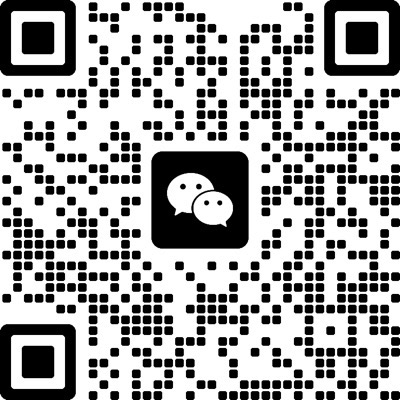
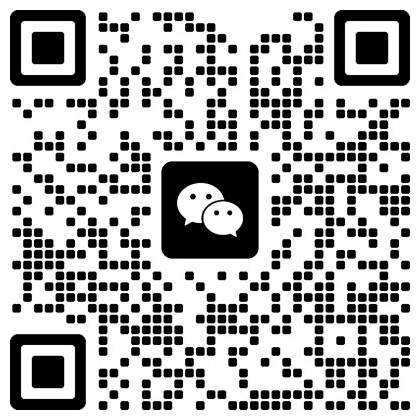
Use new QR code across contact and payment views

diff --git a/public/styles.css b/public/styles.css
@@ -1,5 +1,5 @@
 :root{--ink:#291a1e;--muted:#796b70;--line:#eadde0;--cream:#fbf7f7;--mint:#fff0f2;--green:#b5112e;--coral:#e44156;--navy:#720d22;--white:#fff;--shadow:0 16px 44px rgba(112,13,34,.1)}
-*{box-sizing:border-box}body{margin:0;background:var(--cream);color:var(--ink);font-family:'DM Sans','Noto Sans SC',sans-serif}button,a{font:inherit}button{cursor:pointer;border:0}a{text-decoration:none;color:inherit}.shell{max-width:1240px;margin:auto;padding:0 32px}.topbar{height:76px;display:flex;align-items:center;justify-content:space-between;border-bottom:1px solid var(--line)}.brand{display:flex;align-items:center;gap:10px;font-weight:800;letter-spacing:.02em}.brand-mark{width:28px;height:28px;border-radius:50% 50% 50% 6px;background:var(--coral);display:grid;place-items:center;color:white;font-size:15px;transform:rotate(-12deg)}.nav{display:flex;align-items:center;gap:28px;font-size:14px;color:var(--muted)}.nav a.active,.nav a:hover{color:var(--ink)}.nav-cta{padding:11px 18px;background:var(--ink);color:white;border-radius:999px}.hero{padding:74px 0 50px;display:grid;grid-template-columns:1.05fr .95fr;gap:56px;align-items:center}.eyebrow{color:var(--green);font-size:12px;letter-spacing:.16em;text-transform:uppercase;font-weight:700}.hero h1{font-size:clamp(42px,6vw,74px);line-height:.98;letter-spacing:-.06em;margin:18px 0 22px;font-weight:700}.hero h1 em{font-family:Georgia,serif;font-weight:400;color:var(--green)}.hero p{font-size:18px;line-height:1.7;color:var(--muted);max-width:490px;margin:0 0 30px}.btn-primary{display:inline-flex;align-items:center;gap:12px;padding:15px 22px;border-radius:999px;background:var(--green);color:#fff;font-weight:700;transition:transform .2s,box-shadow .2s}.btn-primary:hover{transform:translateY(-3px);box-shadow:0 8px 20px rgba(30,106,87,.25)}.arrow{display:grid;place-items:center;width:24px;height:24px;border-radius:50%;background:rgba(255,255,255,.2)}.hero-art{height:390px;border-radius:26px;overflow:hidden;position:relative;background:linear-gradient(140deg,#c6e3db,#f5d9ca)}.hero-art img{width:100%;height:100%;object-fit:cover;mix-blend-mode:multiply;opacity:.82}.art-note{position:absolute;bottom:22px;left:22px;background:rgba(255,255,255,.88);backdrop-filter:blur(10px);padding:14px 16px;border-radius:14px;font-size:13px}.art-note strong{display:block;font-size:19px}.section-head{display:flex;align-items:end;justify-content:space-between;margin-bottom:20px}.section-head h2{font-size:30px;letter-spacing:-.04em;margin:0}.section-head p{margin:5px 0 0;color:var(--muted);font-size:14px}.text-link{font-size:14px;color:var(--green);font-weight:700}.updates{padding:25px 0 70px}.update-grid{display:grid;grid-template-columns:repeat(3,1fr);gap:16px}.update-card{background:white;border:1px solid var(--line);padding:21px;border-radius:18px;min-height:188px;display:flex;flex-direction:column;justify-content:space-between}.tag{display:inline-flex;align-items:center;padding:6px 9px;background:var(--mint);border-radius:6px;font-size:11px;color:var(--green);font-weight:700}.update-card h3{font-size:17px;line-height:1.4;margin:15px 0 8px}.update-card p{font-size:13px;line-height:1.6;color:var(--muted);margin:0}.update-foot{font-size:12px;color:#9aa5ab}.home-bottom{display:grid;grid-template-columns:1.35fr .65fr;gap:16px;padding:0 0 60px}.feature-card{border-radius:20px;padding:28px;min-height:190px;background:var(--navy);color:#fff;position:relative;overflow:hidden}.feature-card.mint{background:var(--mint);color:var(--ink)}.feature-card h3{font-size:25px;letter-spacing:-.03em;margin:0 0 8px}.feature-card p{color:rgba(255,255,255,.68);font-size:13px;line-height:1.6;max-width:340px}.mint p{color:var(--muted)}.feature-card .corner-arrow{position:absolute;right:24px;bottom:22px;width:38px;height:38px;border-radius:50%;background:rgba(255,255,255,.15);display:grid;place-items:center;font-size:18px}.mint .corner-arrow{background:rgba(24,35,45,.08)}.page{padding:38px 0 80px}.page-title{display:flex;justify-content:space-between;align-items:end;margin-bottom:28px}.page-title h1{font-size:44px;letter-spacing:-.05em;margin:8px 0}.page-title p{color:var(--muted);margin:0}.filter-row{display:flex;gap:9px;margin-bottom:22px;flex-wrap:wrap}.filter{background:#fff;border:1px solid var(--line);padding:9px 14px;border-radius:999px;font-size:13px;color:var(--muted)}.filter.active{background:var(--ink);color:#fff;border-color:var(--ink)}.uni-list{display:flex;flex-direction:column;gap:10px}.uni-row{display:grid;grid-template-columns:54px 58px 1fr auto 110px;align-items:center;gap:16px;background:#fff;border:1px solid var(--line);padding:15px 18px;border-radius:16px;transition:transform .2s,box-shadow .2s}.uni-row:hover{transform:translateY(-2px);box-shadow:var(--shadow)}.rank{font-size:20px;font-weight:700;color:#9ca9ae}.crest{width:48px;height:48px;border-radius:13px;display:grid;place-items:center;color:#fff;font-weight:800;font-size:12px;letter-spacing:-.02em}.uni-name{font-size:17px;font-weight:700}.uni-meta{font-size:12px;color:var(--muted);margin-top:4px}.qs{font-size:13px;color:var(--green);font-weight:700}.row-action{padding:10px 14px;border-radius:999px;background:var(--cream);color:var(--ink);font-size:12px;font-weight:700}.detail-hero{display:grid;grid-template-columns:1fr 1fr;gap:36px;align-items:stretch;margin-bottom:36px}.detail-photo{border-radius:22px;min-height:310px;overflow:hidden;background:#d4dfde}.detail-photo img{width:100%;height:100%;object-fit:cover}.detail-copy{padding:12px 0}.detail-copy .crumb{font-size:13px;color:var(--muted);margin-bottom:22px}.detail-copy h1{font-size:46px;line-height:1.02;letter-spacing:-.055em;margin:0 0 12px}.detail-copy p{color:var(--muted);line-height:1.7;font-size:15px}.detail-actions{display:flex;gap:10px;margin-top:24px;flex-wrap:wrap}.btn-secondary{padding:13px 17px;border-radius:999px;border:1px solid var(--line);background:#fff;color:var(--ink);font-weight:700;font-size:13px}.btn-secondary.saved{background:var(--mint);border-color:var(--mint);color:var(--green)}.detail-grid{display:grid;grid-template-columns:1.3fr .7fr;gap:18px}.panel{background:#fff;border:1px solid var(--line);border-radius:18px;padding:24px}.panel h2{font-size:20px;margin:0 0 18px}.req-grid{display:grid;grid-template-columns:repeat(2,1fr);gap:10px}.req{padding:15px;background:var(--cream);border-radius:12px}.req small{display:block;color:var(--muted);font-size:11px;margin-bottom:6px}.req strong{font-size:15px}.case{padding:15px 0;border-top:1px solid var(--line)}.case:first-of-type{border-top:0;padding-top:0}.case-top{display:flex;justify-content:space-between;gap:14px;font-size:14px;font-weight:700}.case p{font-size:13px;color:var(--muted);line-height:1.6;margin:7px 0 0}.source{font-size:11px;color:#9aa5ab;margin-top:16px}.form-layout{display:grid;grid-template-columns:1fr 300px;gap:18px}.progress{height:6px;background:#e8edec;border-radius:99px;margin:14px 0 25px;overflow:hidden}.progress span{display:block;height:100%;background:var(--green);border-radius:99px;transition:width .3s}.question{display:none}.question.active{display:block}.question h2{font-size:25px;line-height:1.25;margin:0 0 20px}.option-grid{display:grid;gap:10px}.option{padding:15px 17px;border:1px solid var(--line);border-radius:12px;background:#fff;text-align:left;display:flex;justify-content:space-between;align-items:center}.option:hover,.option.selected{border-color:var(--green);background:#f0f9f5}.option.selected:after{content:'✓';color:var(--green);font-weight:700}.form-actions{display:flex;justify-content:space-between;margin-top:26px}.side-note{background:var(--navy);color:#fff;border-radius:18px;padding:22px;height:max-content}.side-note h3{margin:0 0 11px;font-size:18px}.side-note p{font-size:13px;line-height:1.7;color:rgba(255,255,255,.7)}.result{display:none}.result.show{display:block}.score{font-size:68px;font-weight:700;letter-spacing:-.06em;color:var(--green);line-height:1}.score small{font-size:22px;letter-spacing:0}.bar{height:9px;background:#e8edec;border-radius:99px;overflow:hidden;margin:13px 0 10px}.bar span{height:100%;display:block;background:var(--green);border-radius:99px}.alternatives{display:grid;gap:9px;margin-top:19px}.alt{background:var(--cream);padding:13px;border-radius:10px;font-size:13px}.pay-hero{max-width:720px;margin:36px auto;text-align:center}.pay-hero h1{font-size:46px;letter-spacing:-.05em;margin:12px 0}.pay-hero p{color:var(--muted);line-height:1.7}.price-card{background:#fff;border:1px solid var(--line);border-radius:22px;padding:28px;max-width:560px;margin:28px auto;box-shadow:var(--shadow)}.price{font-size:48px;font-weight:700;letter-spacing:-.06em}.price small{font-size:15px;color:var(--muted);font-weight:400}.price-card ul{list-style:none;padding:0;margin:20px 0;display:grid;gap:12px;font-size:14px}.price-card li:before{content:'✦';color:var(--coral);margin-right:9px}.qr-card{display:flex;gap:24px;align-items:center;max-width:620px;margin:40px auto;background:#fff;border:1px solid var(--line);border-radius:20px;padding:24px}.qr{width:168px;height:168px;background:repeating-conic-gradient(#1a272d 0 25%,#fff 0 50%) 50%/22px 22px;border:10px solid #fff;box-shadow:0 0 0 1px var(--line)}.empty{text-align:center;padding:70px 20px;background:#fff;border:1px dashed #cfd8d8;border-radius:18px;color:var(--muted)}.empty .emoji{font-size:42px;display:block;margin-bottom:10px}.dream-grid{display:grid;grid-template-columns:repeat(3,1fr);gap:14px}.dream-card{background:#fff;border:1px solid var(--line);border-radius:16px;padding:18px}.dream-card-top{display:flex;gap:12px;align-items:center}.dream-card h3{font-size:16px;margin:0}.dream-card p{font-size:12px;color:var(--muted);margin:4px 0 14px}.toast{position:fixed;bottom:26px;left:50%;transform:translate(-50%,20px);opacity:0;background:var(--ink);color:#fff;padding:12px 18px;border-radius:999px;font-size:13px;transition:.3s;z-index:9}.toast.show{opacity:1;transform:translate(-50%,0)}.footer{border-top:1px solid var(--line);padding:25px 0;color:#97a1a6;font-size:12px;display:flex;justify-content:space-between}
+*{box-sizing:border-box}body{margin:0;background:var(--cream);color:var(--ink);font-family:'DM Sans','Noto Sans SC',sans-serif}button,a{font:inherit}button{cursor:pointer;border:0}a{text-decoration:none;color:inherit}.shell{max-width:1240px;margin:auto;padding:0 32px}.topbar{height:76px;display:flex;align-items:center;justify-content:space-between;border-bottom:1px solid var(--line)}.brand{display:flex;align-items:center;gap:10px;font-weight:800;letter-spacing:.02em}.brand-mark{width:28px;height:28px;border-radius:50% 50% 50% 6px;background:var(--coral);display:grid;place-items:center;color:white;font-size:15px;transform:rotate(-12deg)}.nav{display:flex;align-items:center;gap:28px;font-size:14px;color:var(--muted)}.nav a.active,.nav a:hover{color:var(--ink)}.nav-cta{padding:11px 18px;background:var(--ink);color:white;border-radius:999px}.hero{padding:74px 0 50px;display:grid;grid-template-columns:1.05fr .95fr;gap:56px;align-items:center}.eyebrow{color:var(--green);font-size:12px;letter-spacing:.16em;text-transform:uppercase;font-weight:700}.hero h1{font-size:clamp(42px,6vw,74px);line-height:.98;letter-spacing:-.06em;margin:18px 0 22px;font-weight:700}.hero h1 em{font-family:Georgia,serif;font-weight:400;color:var(--green)}.hero p{font-size:18px;line-height:1.7;color:var(--muted);max-width:490px;margin:0 0 30px}.btn-primary{display:inline-flex;align-items:center;gap:12px;padding:15px 22px;border-radius:999px;background:var(--green);color:#fff;font-weight:700;transition:transform .2s,box-shadow .2s}.btn-primary:hover{transform:translateY(-3px);box-shadow:0 8px 20px rgba(30,106,87,.25)}.arrow{display:grid;place-items:center;width:24px;height:24px;border-radius:50%;background:rgba(255,255,255,.2)}.hero-art{height:390px;border-radius:26px;overflow:hidden;position:relative;background:linear-gradient(140deg,#c6e3db,#f5d9ca)}.hero-art img{width:100%;height:100%;object-fit:cover;mix-blend-mode:multiply;opacity:.82}.art-note{position:absolute;bottom:22px;left:22px;background:rgba(255,255,255,.88);backdrop-filter:blur(10px);padding:14px 16px;border-radius:14px;font-size:13px}.art-note strong{display:block;font-size:19px}.section-head{display:flex;align-items:end;justify-content:space-between;margin-bottom:20px}.section-head h2{font-size:30px;letter-spacing:-.04em;margin:0}.section-head p{margin:5px 0 0;color:var(--muted);font-size:14px}.text-link{font-size:14px;color:var(--green);font-weight:700}.updates{padding:25px 0 70px}.update-grid{display:grid;grid-template-columns:repeat(3,1fr);gap:16px}.update-card{background:white;border:1px solid var(--line);padding:21px;border-radius:18px;min-height:188px;display:flex;flex-direction:column;justify-content:space-between}.tag{display:inline-flex;align-items:center;padding:6px 9px;background:var(--mint);border-radius:6px;font-size:11px;color:var(--green);font-weight:700}.update-card h3{font-size:17px;line-height:1.4;margin:15px 0 8px}.update-card p{font-size:13px;line-height:1.6;color:var(--muted);margin:0}.update-foot{font-size:12px;color:#9aa5ab}.home-bottom{display:grid;grid-template-columns:1.35fr .65fr;gap:16px;padding:0 0 60px}.feature-card{border-radius:20px;padding:28px;min-height:190px;background:var(--navy);color:#fff;position:relative;overflow:hidden}.feature-card.mint{background:var(--mint);color:var(--ink)}.feature-card h3{font-size:25px;letter-spacing:-.03em;margin:0 0 8px}.feature-card p{color:rgba(255,255,255,.68);font-size:13px;line-height:1.6;max-width:340px}.mint p{color:var(--muted)}.feature-card .corner-arrow{position:absolute;right:24px;bottom:22px;width:38px;height:38px;border-radius:50%;background:rgba(255,255,255,.15);display:grid;place-items:center;font-size:18px}.mint .corner-arrow{background:rgba(24,35,45,.08)}.page{padding:38px 0 80px}.page-title{display:flex;justify-content:space-between;align-items:end;margin-bottom:28px}.page-title h1{font-size:44px;letter-spacing:-.05em;margin:8px 0}.page-title p{color:var(--muted);margin:0}.filter-row{display:flex;gap:9px;margin-bottom:22px;flex-wrap:wrap}.filter{background:#fff;border:1px solid var(--line);padding:9px 14px;border-radius:999px;font-size:13px;color:var(--muted)}.filter.active{background:var(--ink);color:#fff;border-color:var(--ink)}.uni-list{display:flex;flex-direction:column;gap:10px}.uni-row{display:grid;grid-template-columns:54px 58px 1fr auto 110px;align-items:center;gap:16px;background:#fff;border:1px solid var(--line);padding:15px 18px;border-radius:16px;transition:transform .2s,box-shadow .2s}.uni-row:hover{transform:translateY(-2px);box-shadow:var(--shadow)}.rank{font-size:20px;font-weight:700;color:#9ca9ae}.crest{width:48px;height:48px;border-radius:13px;display:grid;place-items:center;color:#fff;font-weight:800;font-size:12px;letter-spacing:-.02em}.uni-name{font-size:17px;font-weight:700}.uni-meta{font-size:12px;color:var(--muted);margin-top:4px}.qs{font-size:13px;color:var(--green);font-weight:700}.row-action{padding:10px 14px;border-radius:999px;background:var(--cream);color:var(--ink);font-size:12px;font-weight:700}.detail-hero{display:grid;grid-template-columns:1fr 1fr;gap:36px;align-items:stretch;margin-bottom:36px}.detail-photo{border-radius:22px;min-height:310px;overflow:hidden;background:#d4dfde}.detail-photo img{width:100%;height:100%;object-fit:cover}.detail-copy{padding:12px 0}.detail-copy .crumb{font-size:13px;color:var(--muted);margin-bottom:22px}.detail-copy h1{font-size:46px;line-height:1.02;letter-spacing:-.055em;margin:0 0 12px}.detail-copy p{color:var(--muted);line-height:1.7;font-size:15px}.detail-actions{display:flex;gap:10px;margin-top:24px;flex-wrap:wrap}.btn-secondary{padding:13px 17px;border-radius:999px;border:1px solid var(--line);background:#fff;color:var(--ink);font-weight:700;font-size:13px}.btn-secondary.saved{background:var(--mint);border-color:var(--mint);color:var(--green)}.detail-grid{display:grid;grid-template-columns:1.3fr .7fr;gap:18px}.panel{background:#fff;border:1px solid var(--line);border-radius:18px;padding:24px}.panel h2{font-size:20px;margin:0 0 18px}.req-grid{display:grid;grid-template-columns:repeat(2,1fr);gap:10px}.req{padding:15px;background:var(--cream);border-radius:12px}.req small{display:block;color:var(--muted);font-size:11px;margin-bottom:6px}.req strong{font-size:15px}.case{padding:15px 0;border-top:1px solid var(--line)}.case:first-of-type{border-top:0;padding-top:0}.case-top{display:flex;justify-content:space-between;gap:14px;font-size:14px;font-weight:700}.case p{font-size:13px;color:var(--muted);line-height:1.6;margin:7px 0 0}.source{font-size:11px;color:#9aa5ab;margin-top:16px}.form-layout{display:grid;grid-template-columns:1fr 300px;gap:18px}.progress{height:6px;background:#e8edec;border-radius:99px;margin:14px 0 25px;overflow:hidden}.progress span{display:block;height:100%;background:var(--green);border-radius:99px;transition:width .3s}.question{display:none}.question.active{display:block}.question h2{font-size:25px;line-height:1.25;margin:0 0 20px}.option-grid{display:grid;gap:10px}.option{padding:15px 17px;border:1px solid var(--line);border-radius:12px;background:#fff;text-align:left;display:flex;justify-content:space-between;align-items:center}.option:hover,.option.selected{border-color:var(--green);background:#f0f9f5}.option.selected:after{content:'✓';color:var(--green);font-weight:700}.form-actions{display:flex;justify-content:space-between;margin-top:26px}.side-note{background:var(--navy);color:#fff;border-radius:18px;padding:22px;height:max-content}.side-note h3{margin:0 0 11px;font-size:18px}.side-note p{font-size:13px;line-height:1.7;color:rgba(255,255,255,.7)}.result{display:none}.result.show{display:block}.score{font-size:68px;font-weight:700;letter-spacing:-.06em;color:var(--green);line-height:1}.score small{font-size:22px;letter-spacing:0}.bar{height:9px;background:#e8edec;border-radius:99px;overflow:hidden;margin:13px 0 10px}.bar span{height:100%;display:block;background:var(--green);border-radius:99px}.alternatives{display:grid;gap:9px;margin-top:19px}.alt{background:var(--cream);padding:13px;border-radius:10px;font-size:13px}.pay-hero{max-width:720px;margin:36px auto;text-align:center}.pay-hero h1{font-size:46px;letter-spacing:-.05em;margin:12px 0}.pay-hero p{color:var(--muted);line-height:1.7}.price-card{background:#fff;border:1px solid var(--line);border-radius:22px;padding:28px;max-width:560px;margin:28px auto;box-shadow:var(--shadow)}.price{font-size:48px;font-weight:700;letter-spacing:-.06em}.price small{font-size:15px;color:var(--muted);font-weight:400}.price-card ul{list-style:none;padding:0;margin:20px 0;display:grid;gap:12px;font-size:14px}.price-card li:before{content:'✦';color:var(--coral);margin-right:9px}.qr-card{display:flex;gap:24px;align-items:center;max-width:620px;margin:40px auto;background:#fff;border:1px solid var(--line);border-radius:20px;padding:24px}.qr{width:168px;height:168px;object-fit:contain;background:#fff;border:10px solid #fff;box-shadow:0 0 0 1px var(--line)}.empty{text-align:center;padding:70px 20px;background:#fff;border:1px dashed #cfd8d8;border-radius:18px;color:var(--muted)}.empty .emoji{font-size:42px;display:block;margin-bottom:10px}.dream-grid{display:grid;grid-template-columns:repeat(3,1fr);gap:14px}.dream-card{background:#fff;border:1px solid var(--line);border-radius:16px;padding:18px}.dream-card-top{display:flex;gap:12px;align-items:center}.dream-card h3{font-size:16px;margin:0}.dream-card p{font-size:12px;color:var(--muted);margin:4px 0 14px}.toast{position:fixed;bottom:26px;left:50%;transform:translate(-50%,20px);opacity:0;background:var(--ink);color:#fff;padding:12px 18px;border-radius:999px;font-size:13px;transition:.3s;z-index:9}.toast.show{opacity:1;transform:translate(-50%,0)}.footer{border-top:1px solid var(--line);padding:25px 0;color:#97a1a6;font-size:12px;display:flex;justify-content:space-between}
 @media(max-width:800px){.shell{padding:0 18px}.topbar{height:66px}.nav{gap:12px}.nav a:not(.nav-cta){display:none}.hero,.detail-hero,.detail-grid,.form-layout,.profile-layout,.result-grid{grid-template-columns:1fr}.hero{padding:45px 0 35px;gap:28px}.hero-art{height:270px}.update-grid,.dream-grid{grid-template-columns:1fr}.home-bottom{grid-template-columns:1fr}.page-title{display:block}.page-title h1{font-size:38px}.uni-row{grid-template-columns:34px 48px 1fr auto;gap:10px;padding:12px}.uni-row .qs{display:none}.row-action{padding:8px 10px}.detail-copy h1{font-size:38px}.req-grid{grid-template-columns:1fr}.qr-card{flex-direction:column;text-align:center}.footer{display:block;line-height:1.8}.field-grid{grid-template-columns:1fr}.scale-grid{grid-template-columns:repeat(5,1fr);gap:5px}.scale-option{padding:10px 3px;font-size:9px}.data-banner{display:block}.data-banner strong{display:block;margin-bottom:5px}.search-row{display:block}.search-row .search-input{max-width:none;margin-bottom:8px}.profile-layout>.profile-actions{grid-column:auto}.result-grid .plan-panel{grid-column:auto}}
 .data-banner{display:flex;gap:16px;align-items:center;background:#fff4e8;border:1px solid #f3d7b7;padding:13px 16px;border-radius:12px;font-size:12px;color:#785b3c;margin-bottom:18px}.data-banner strong{color:#a26328;white-space:nowrap}.search-row{display:flex;align-items:center;justify-content:space-between;gap:16px;margin-bottom:14px;font-size:12px;color:var(--muted)}.search-input{width:100%;border:1px solid var(--line);background:#fff;border-radius:10px;padding:11px 13px;color:var(--ink);outline:none}.search-input:focus{border-color:var(--green)}.search-row .search-input{max-width:390px}.profile-layout{display:grid;grid-template-columns:1fr 380px;gap:18px}.profile-layout>.profile-actions{grid-column:1/-1;display:flex;justify-content:space-between;align-items:center}.field-grid{display:grid;grid-template-columns:repeat(2,1fr);gap:14px}.field-grid label{display:grid;gap:7px;color:var(--muted);font-size:12px}.field-grid input,.field-grid select,.field-grid textarea,.comp-controls select{border:1px solid var(--line);border-radius:10px;background:var(--cream);padding:11px 12px;color:var(--ink);font:inherit;font-size:13px;resize:vertical}.field-grid textarea{min-height:75px}.competition-panel{max-height:790px;overflow:hidden}.muted-small{font-size:12px;color:var(--muted);line-height:1.6}.comp-controls{display:flex;gap:8px;margin:15px 0}.comp-controls .search-input{min-width:0}.comp-controls select{width:92px}.competition-list{max-height:565px;overflow:auto;display:grid;gap:8px;padding-right:4px}.competition-item{display:grid;grid-template-columns:18px 1fr 68px;gap:8px;align-items:center;padding:9px;background:var(--cream);border-radius:9px;font-size:11px}.competition-item input{accent-color:var(--green)}.competition-item strong{display:block;font-size:12px;line-height:1.35}.competition-item small{display:block;color:var(--muted);margin-top:2px}.competition-item select{border:1px solid var(--line);border-radius:6px;background:#fff;padding:5px 3px;color:var(--muted);font-size:10px}.dimension-chip{display:inline-flex;align-items:center;gap:9px;padding:8px 11px;border-radius:8px;background:color-mix(in srgb,var(--dim) 10%,white);color:var(--dim);font-weight:700;font-size:13px}.dimension-chip span{width:8px;height:8px;border-radius:50%;background:var(--dim)}.scale-grid{display:grid;grid-template-columns:repeat(5,1fr);gap:9px}.scale-option{display:grid;gap:9px;justify-items:center;padding:15px 8px;background:#fff;border:1px solid var(--line);border-radius:12px;color:var(--muted);font-size:11px}.scale-option b{display:grid;place-items:center;width:30px;height:30px;border-radius:50%;background:var(--cream);color:var(--ink);font-size:14px}.scale-option:hover,.scale-option.selected{border-color:var(--green);background:#f0f9f5;color:var(--green)}.scale-option.selected b{background:var(--green);color:#fff}.dimension-list{display:grid;gap:10px;margin-top:20px}.dimension-list div{font-size:12px;color:rgba(255,255,255,.75)}.dimension-list span{display:inline-block;width:8px;height:8px;border-radius:50%;margin-right:8px}.result-grid{display:grid;grid-template-columns:.8fr 1.2fr;gap:18px}.result-grid .plan-panel{grid-column:1/-1}.radar-panel{text-align:center}.radar{width:280px;max-width:100%;margin:0 auto 4px;display:block}.radar-legend{display:grid;grid-template-columns:repeat(2,1fr);gap:8px;text-align:left}.radar-legend div{font-size:11px;color:var(--muted)}.radar-legend span{display:inline-block;width:7px;height:7px;border-radius:50%;margin-right:5px}.radar-legend strong{float:right;color:var(--ink)}.strength{margin:13px 0}.strength>div:first-child{display:flex;justify-content:space-between;font-size:13px}.strength>div:first-child span{color:var(--muted);font-size:11px}.strength .bar{height:6px;margin:7px 0}.strength p{font-size:11px;color:var(--muted);margin:0}.plan-step{display:flex;gap:15px;padding:16px 0;border-top:1px solid var(--line)}.plan-step:first-of-type{border-top:0}.plan-step>b{width:30px;height:30px;border-radius:50%;display:grid;place-items:center;background:var(--mint);color:var(--green);font-size:12px}.plan-step strong{font-size:14px}.plan-step p{font-size:12px;line-height:1.6;color:var(--muted);margin:6px 0 0}
 .data-banner.verified{background:#eef8f3;border-color:#cce8db;color:#446d60}.data-banner.verified strong{color:var(--green)}.verified-dot{display:inline-block;margin-left:8px;padding:3px 6px;border-radius:5px;background:var(--mint);color:var(--green);font-size:9px;vertical-align:2px}.qs small{color:var(--muted);font-weight:500}.pagination{display:flex;align-items:center;justify-content:center;gap:14px;margin-top:24px}.pagination button{padding:10px 15px;border-radius:999px;background:#fff;border:1px solid var(--line);font-size:12px;font-weight:700}.pagination button:disabled{opacity:.4;cursor:not-allowed}.pagination span{font-size:12px;color:var(--muted)}

diff --git a/public/app.js b/public/app.js
@@ -42,8 +42,8 @@ function futurePage(s){const p=state.future,ai=state.aiFuture[s.id];return `${he
 function dreamsPage(){return `${header('dreams')}<main class="page shell"><div class="page-title"><div><div class="eyebrow">Saved for later</div><h1>我的梦校</h1><p>把心之所向收藏起来，准备就从这里开始。</p></div></div>${state.saved.length?`<div class="dream-grid">${state.saved.map(id=>{const s=getSchool(id);return s?`<a class="dream-card" href="#/school/${s.id}"><div class="dream-card-top">${crest(s)}<div><h3>${s.name}</h3><p>${s.city}　·　QS #${s.rank}</p></div></div><span class="text-link">查看院校详情 →</span></a>`:''}).join('')}</div>`:`<div class="empty"><span class="emoji">✦</span><strong>还没有收藏梦校</strong><p>去“开始择校”逛逛，遇到心仪的院校就收藏吧。</p><a class="btn-primary" href="#/schools">开始择校 ↗</a></div>`}</main>${footer()}`}
 function samplePremiumPlan(s){return {executiveSummary:`这是一份用于演示付费结果页面的标准模板。方案以${s.name}为目标院校，结合当前会话中的背景档案和八维测评安排执行节奏；正式决策前仍须核对目标专业官网要求。`,positioning:{coreNarrative:'以明确的专业动机为主线，用可验证的学术成果、项目影响与持续成长证明申请匹配度。',strengths:['八维兴趣结果可用于梳理专业动机与长期方向','结构化背景档案便于识别优先提升项','已确定目标院校，可倒推材料与时间节点'],gaps:['逐专业先修课与最低成绩要求仍需核验','语言、科研与推荐信证据需要形成可量化成果','目标院校之外还需建立冲刺、匹配、稳妥梯度']},schoolStrategy:[{tier:'冲刺',recommendation:`以${s.name}及同层级 2–3 个专业为主`,reason:'保留学术上限，同时严格核验先修课、语言和材料要求。'},{tier:'匹配',recommendation:'选择 3–4 个背景中位数与本人硬指标接近的项目',reason:'重点比较课程匹配、项目资源与职业去向。'},{tier:'稳妥',recommendation:'选择 2–3 个满足硬性门槛且录取梯度更友好的项目',reason:'避免单一地区、单一专业方向造成集中风险。'}],milestones:[{date:'第 1–2 周',objective:'完成申请资产审计',tasks:['整理完整成绩单并换算 GPA/均分','建立目标专业先修课对照表','盘点科研、实习、竞赛、证书与作品'],deliverables:['一页背景总表','材料缺口清单','证据文件目录'],successMetric:'所有经历均有时间、角色、成果和证明文件'},{date:'第 3–4 周',objective:'确定语言与标化方案',tasks:['完成一次全真模考','按单项短板制定训练计划','确认各项目是否接受拼分或豁免'],deliverables:['基线成绩报告','8 周复习计划','考试报名记录'],successMetric:'目标分数、考试日期和每周学习时长明确'},{date:'第 2 个月',objective:'建立专业能力证明',tasks:['选择与目标专业直接相关的课程项目','补充一个可公开展示的作品或研究','记录方法、数据、结果与个人贡献'],deliverables:['项目说明书','作品集或代码仓库','成果量化表'],successMetric:'至少形成 1 个可由推荐人验证的核心项目'},{date:'第 3 个月',objective:'补强科研或实践经历',tasks:['联系导师或项目负责人','明确承担的独立任务','每两周复盘一次阶段产出'],deliverables:['研究问题与计划','阶段成果','导师反馈记录'],successMetric:'产生可写入简历的明确成果或影响指标'},{date:'第 4 个月',objective:'完成选校梯度初版',tasks:['逐项核验课程、语言、先修课和截止日','比较学费、奖学金与就业资源','标注冲刺、匹配、稳妥层级'],deliverables:['8–12 所选校表','官网证据链接','风险说明'],successMetric:'每个项目都有选择理由、硬门槛和备选项'},{date:'第 5 个月',objective:'落实推荐信',tasks:['筛选 2–3 位熟悉申请者工作的推荐人','准备推荐人资料包','确认提交方式与截止日期'],deliverables:['推荐人名单','经历要点包','提交时间表'],successMetric:'至少两位推荐人明确同意并掌握具体案例'},{date:'第 6 个月',objective:'完成文书主线',tasks:['确定申请动机、能力证据和未来目标','为不同项目建立差异化段落','进行事实与逻辑核验'],deliverables:['个人陈述初稿','项目差异化素材库','文书事实清单'],successMetric:'每个核心判断都由具体经历或成果支持'},{date:'第 7 个月',objective:'完成简历与附加材料',tasks:['统一经历名称、日期和数字','压缩弱相关内容','检查作品集、写作样本和证书格式'],deliverables:['一页学术简历','作品集终稿','文件命名规范'],successMetric:'材料之间无日期、角色或成果冲突'},{date:'第 8 个月',objective:'完成首轮网申',tasks:['建立网申账号与字段清单','逐项核对成绩和课程信息','提前上传并检查全部附件'],deliverables:['首轮提交记录','材料检查表','费用与状态台账'],successMetric:'至少提前截止日 7 天完成首批申请'},{date:'第 9 个月',objective:'完成主批次申请',tasks:['根据首轮反馈修正文书','追踪推荐信与成绩送分','保存所有提交确认邮件'],deliverables:['主批次提交包','推荐信状态表','申请台账'],successMetric:'所有项目状态可追踪且不存在遗漏字段'},{date:'第 10–11 个月',objective:'准备面试与补件',tasks:['整理 20 个高频问题','完成至少 3 次模拟面试','准备项目细节和职业目标证据'],deliverables:['面试答案库','模拟复盘表','补件模板'],successMetric:'能够在 2 分钟内清晰说明动机、贡献与匹配度'},{date:'录取后至入学',objective:'完成决策、签证与行前准备',tasks:['比较课程、费用、奖学金与就业结果','按要求缴纳押金并准备签证材料','完成住宿、保险、体检与行程安排'],deliverables:['录取决策矩阵','签证材料包','行前清单'],successMetric:'所有官方截止日前完成确认且保留备份文件'}],weeklyCadence:['每周 3 次语言或标化训练，每次 90 分钟','每周 2 次科研/项目深度工作，每次 2 小时','每周 1 次申请材料整理和官网要求核验','每周日完成进度复盘，更新风险和下周三项优先任务'],materialPlan:[{name:'个人陈述',strategy:'围绕专业问题、能力证据和未来目标形成一条连续主线。',checklist:['避免空泛赞美学校','每段至少包含一个可验证事实','逐校替换课程、导师或资源匹配内容']},{name:'学术简历',strategy:'优先呈现与目标专业相关且可量化的成果。',checklist:['统一日期与动词时态','注明个人职责和具体影响','控制篇幅并删除重复描述']},{name:'推荐信',strategy:'让不同推荐人分别证明学术能力、研究潜力和协作执行。',checklist:['提供经历事实包','避免多封信内容重复','至少提前 6 周确认']},{name:'作品与补充材料',strategy:'用过程、方法和结果展示真实能力，而非只展示成品。',checklist:['删除敏感或无授权数据','保证链接可访问','添加个人贡献说明']}],riskControls:[{risk:'语言成绩未达标',trigger:'距首个截止日 10 周仍低于目标总分或关键单项',response:'增加模考频率，同时增加接受较低门槛或语言班的备选项目。'},{risk:'科研或实习成果不足',trigger:'距文书定稿 8 周仍没有可量化成果',response:'缩小项目范围，优先完成一个可验证交付物并取得负责人反馈。'},{risk:'推荐信延期',trigger:'截止日前 3 周仍未确认提交',response:'立即启用备选推荐人并提供完整资料包。'},{risk:'选校过度集中',trigger:'超过 60% 项目属于同一高风险梯度',response:'补充匹配与稳妥项目，并分散国家、截止日与专业方向。'}],alternatives:['若硬指标短期无法提升，优先选择更重视项目经历或作品集的方向。','若目标专业先修课不足，可先补修认证课程或申请相邻专业。','若当季准备时间不足，可将部分冲刺项目延后一个入学季。'],citations:[],limitations:['这是不调用 API 的页面演示模板，不代表 DeepSeek 已完成分析。','未接入真实支付回调，模拟确认不代表款项到账。','录取要求必须以目标专业官网最新页面为准。']}}
 function premiumResultMarkup(result,model,isDemo){return `<section class="panel premium-result"><div class="premium-head"><div><span class="tag">${isDemo?'DEMO PREVIEW':'PAID AI ROADMAP'}</span><h2>个人详细升学执行方案</h2></div><span class="confidence">${esc(model)}</span></div><p class="verdict">${esc(result.executiveSummary)}</p><div class="fit-note"><strong>申请定位主线</strong>${esc(result.positioning.coreNarrative)}</div><div class="analysis-columns"><div><h3>核心优势</h3><ul>${result.positioning.strengths.map(x=>`<li>${esc(x)}</li>`).join('')}</ul></div><div><h3>关键缺口</h3><ul>${result.positioning.gaps.map(x=>`<li>${esc(x)}</li>`).join('')}</ul></div></div><h3>选校梯度策略</h3><div class="premium-strategy">${result.schoolStrategy.map(x=>`<article><span>${esc(x.tier)}</span><strong>${esc(x.recommendation)}</strong><p>${esc(x.reason)}</p></article>`).join('')}</div><h3>从现在到入学的关键时间节点</h3><div class="premium-timeline">${result.milestones.map((x,i)=>`<article><div class="premium-date"><b>${String(i+1).padStart(2,'0')}</b><time>${esc(x.date)}</time></div><div><h4>${esc(x.objective)}</h4><div class="premium-columns"><section><strong>具体任务</strong><ul>${x.tasks.map(t=>`<li>${esc(t)}</li>`).join('')}</ul></section><section><strong>阶段交付物</strong><ul>${x.deliverables.map(t=>`<li>${esc(t)}</li>`).join('')}</ul></section></div><p class="success-metric">验收标准：${esc(x.successMetric)}</p></div></article>`).join('')}</div><div class="analysis-columns"><div><h3>每周执行节奏</h3><ul>${result.weeklyCadence.map(x=>`<li>${esc(x)}</li>`).join('')}</ul></div><div><h3>备选路线</h3><ul>${result.alternatives.map(x=>`<li>${esc(x)}</li>`).join('')}</ul></div></div><h3>申请材料拆解</h3><div class="material-grid">${result.materialPlan.map(x=>`<article><h4>${esc(x.name)}</h4><p>${esc(x.strategy)}</p><ul>${x.checklist.map(t=>`<li>${esc(t)}</li>`).join('')}</ul></article>`).join('')}</div><h3>风险触发与应对</h3><div class="risk-table">${result.riskControls.map(x=>`<article><strong>${esc(x.risk)}</strong><p><b>触发：</b>${esc(x.trigger)}</p><p><b>应对：</b>${esc(x.response)}</p></article>`).join('')}</div><div class="source-box"><strong>来源与限制</strong>${result.citations.length?result.citations.map(x=>`<a href="${safeUrl(x.url)}" target="_blank" rel="noopener">${esc(x.title)} ↗</a>`).join(''):'<span>当前没有可核验的外部引用</span>'}<small>${result.limitations.map(esc).join(' · ')}</small></div><div class="detail-actions"><button class="btn-secondary" data-reset-premium>重新生成 / 返回支付页</button><a class="btn-primary" href="#/contact">联系老师复核方案 ↗</a></div></section>`}
-function payPage(s){const paid=state.aiPremium[s.id];return `${header()}<main class="page shell"><div class="pay-hero"><div class="eyebrow">A plan made for you · ${esc(s.name)}</div><h1>${paid?'你的详细升学方案':'把可能性，变成行动清单。'}</h1><p>${paid?'以下方案仅保存在当前浏览器会话，关闭网站后将自动清除。':'扫码确认后调用 DeepSeek，生成背景定位、选校梯度、申请材料与从现在到入学的具体时间节点。'}</p></div>${paid?premiumResultMarkup(paid.result,paid.model,paid.demo):`<div class="price-card"><div class="eyebrow">锦泓留学 · Deep dive</div><div class="price">¥199 <small>/ 份</small></div><ul><li>不少于 12 个关键时间节点与验收标准</li><li>冲刺 / 匹配 / 稳妥选校梯度</li><li>语言、科研、实习、竞赛与材料拆解</li><li>风险触发条件、应对动作与备选路线</li></ul>${state.aiError?`<div class="api-error">${esc(state.aiError)}</div>`:''}<button class="btn-primary" style="width:100%;justify-content:center" data-open-payment ${state.aiLoading?'disabled':''}>${state.aiLoading?'DeepSeek 正在生成详细方案…':'付费查看详细方案'} <span class="arrow">↗</span></button><div class="source" style="text-align:center">当前为支付流程演示，不会真实扣款；正式上线需接入商户支付回调。</div></div>`}${state.paymentModal?`<div class="payment-modal" role="dialog" aria-modal="true" aria-label="支付确认"><div class="payment-dialog"><button class="modal-close" data-close-payment aria-label="关闭">×</button><img src="/assets/payment-qr-demo.svg?v=20260911" alt="锦泓留学演示收款码"><div><span class="tag">DEMO PAYMENT</span><h2>扫描收款码</h2><p>此二维码仅用于页面流程演示，不会产生真实扣款。真实支付必须由支付机构回调确认到账，不能只依赖用户点击。</p><button class="btn-primary" data-confirm-payment>模拟支付成功并调用 DeepSeek</button><button class="btn-secondary" data-demo-premium>仅预览付费结果样式</button></div></div></div>`:''}</main>${footer()}`}
-function contactPage(){return `${header()}<main class="page shell"><div class="pay-hero"><div class="eyebrow">Talk to a human</div><h1>和专门老师聊聊</h1><p>扫描二维码，添加锦泓留学顾问微信。告诉我们你的目标国家和专业，我们会在 1 个工作日内回复。</p></div><div class="qr-card"><div class="qr" aria-label="微信二维码占位"></div><div><h2 style="margin:0 0 8px">锦泓留学顾问</h2><p style="color:var(--muted);font-size:13px;line-height:1.7;margin:0">微信号：brocade_advisor<br>服务时间：工作日 10:00–19:00<br><span style="color:var(--green)">这是演示二维码，请替换为你的企业微信二维码。</span></p></div></div></main>${footer()}`}
+function payPage(s){const paid=state.aiPremium[s.id];return `${header()}<main class="page shell"><div class="pay-hero"><div class="eyebrow">A plan made for you · ${esc(s.name)}</div><h1>${paid?'你的详细升学方案':'把可能性，变成行动清单。'}</h1><p>${paid?'以下方案仅保存在当前浏览器会话，关闭网站后将自动清除。':'扫码确认后调用 DeepSeek，生成背景定位、选校梯度、申请材料与从现在到入学的具体时间节点。'}</p></div>${paid?premiumResultMarkup(paid.result,paid.model,paid.demo):`<div class="price-card"><div class="eyebrow">锦泓留学 · Deep dive</div><div class="price">¥199 <small>/ 份</small></div><ul><li>不少于 12 个关键时间节点与验收标准</li><li>冲刺 / 匹配 / 稳妥选校梯度</li><li>语言、科研、实习、竞赛与材料拆解</li><li>风险触发条件、应对动作与备选路线</li></ul>${state.aiError?`<div class="api-error">${esc(state.aiError)}</div>`:''}<button class="btn-primary" style="width:100%;justify-content:center" data-open-payment ${state.aiLoading?'disabled':''}>${state.aiLoading?'DeepSeek 正在生成详细方案…':'付费查看详细方案'} <span class="arrow">↗</span></button><div class="source" style="text-align:center">当前为支付流程演示，不会真实扣款；正式上线需接入商户支付回调。</div></div>`}${state.paymentModal?`<div class="payment-modal" role="dialog" aria-modal="true" aria-label="支付确认"><div class="payment-dialog"><button class="modal-close" data-close-payment aria-label="关闭">×</button><img src="/assets/payment-qr-demo.svg?v=20260913" alt="锦泓留学演示收款码"><div><span class="tag">DEMO PAYMENT</span><h2>扫描收款码</h2><p>此二维码仅用于页面流程演示，不会产生真实扣款。真实支付必须由支付机构回调确认到账，不能只依赖用户点击。</p><button class="btn-primary" data-confirm-payment>模拟支付成功并调用 DeepSeek</button><button class="btn-secondary" data-demo-premium>仅预览付费结果样式</button></div></div></div>`:''}</main>${footer()}`}
+function contactPage(){return `${header()}<main class="page shell"><div class="pay-hero"><div class="eyebrow">Talk to a human</div><h1>和专门老师聊聊</h1><p>扫描二维码，添加锦泓留学顾问微信。告诉我们你的目标国家和专业，我们会在 1 个工作日内回复。</p></div><div class="qr-card"><img class="qr" src="/assets/payment-qr.jpg?v=20260913" alt="微信二维码"><div><h2 style="margin:0 0 8px">锦泓留学顾问</h2><p style="color:var(--muted);font-size:13px;line-height:1.7;margin:0">微信号：brocade_advisor<br>服务时间：工作日 10:00–19:00<br><span style="color:var(--green)">这是演示二维码，请替换为你的企业微信二维码。</span></p></div></div></main>${footer()}`}
 function saveProfile(form){const fd=new FormData(form),p={};for(const [k,v] of fd.entries()){if(k==='competition')continue;p[k]=v}p.competitions=[...form.querySelectorAll('input[name="competition"]:checked')].map(x=>x.value);for(const id of p.competitions){const y=form.querySelector(`[name="year-${id}"]`);if(y)p[`year-${id}`]=y.value}state.profile=p;storage.setItem('atlas-profile',JSON.stringify(p));toast('背景档案已保存 ✦')}
 async function callAI(type,s,future={}){state.aiLoading=true;state.aiError='';render();try{const response=await fetch('/api/analyze',{method:'POST',headers:{'Content-Type':'application/json'},body:JSON.stringify({type,schoolId:s.id,dimensions:dimensionsPayload(),profile:profilePayload(),future})});const data=await response.json();if(!response.ok)throw new Error(data.message||'AI 分析暂时不可用');if(type==='premium'){state.aiPremium[s.id]={...data,demo:false};storage.setItem('atlas-premium-results',JSON.stringify(state.aiPremium))}else if(type==='future')state.aiFuture[s.id]=data;else state.aiAnalysis[s.id]=data}catch(error){state.aiError=error.message}finally{state.aiLoading=false;render()}}
 function bind(){document.querySelectorAll('[data-region]').forEach(b=>b.onclick=()=>{state.region=b.dataset.region;state.page=1;render()});document.querySelectorAll('[data-page]').forEach(b=>b.onclick=()=>{state.page=Number(b.dataset.page);render();scrollTo({top:0,behavior:'smooth'})});const schoolSearch=document.querySelector('[data-school-search]');if(schoolSearch)schoolSearch.oninput=e=>{state.search=e.target.value;state.page=1;render();const nextInput=document.querySelector('[data-school-search]');nextInput.focus();nextInput.setSelectionRange(state.search.length,state.search.length)};document.querySelectorAll('[data-save]').forEach(b=>b.onclick=()=>{const id=b.dataset.save;state.saved=state.saved.includes(id)?state.saved.filter(x=>x!==id):[...state.saved,id];storage.setItem('atlas-dreams',JSON.stringify(state.saved));toast(state.saved.includes(id)?'已收藏为梦校 ✦':'已从梦校中移除');render()});const form=document.getElementById('profile-form');if(form){const cs=form.querySelector('[data-comp-search]');if(cs)cs.oninput=e=>{state.compSearch=e.target.value;render()};const cr=form.querySelector('[data-comp-region]');if(cr)cr.onchange=e=>{state.compRegion=e.target.value;render()};form.querySelector('[data-save-profile]').onclick=()=>saveProfile(form);form.querySelector('[data-to-quiz]').onclick=()=>{saveProfile(form);state.quizStep=0;location.hash=`#/quiz/${location.hash.split('/')[2]||''}`}}document.querySelectorAll('[data-answer]').forEach(b=>b.onclick=()=>{const q=questions[state.quizStep];state.answers[q.id]=Number(b.dataset.answer);storage.setItem('atlas-answers',JSON.stringify(state.answers));render()});const next=document.querySelector('[data-next]');if(next)next.onclick=()=>{const q=questions[state.quizStep];if(state.answers[q.id]===undefined){toast('请选择一个选项');return}if(state.quizStep<79)state.quizStep++;else state.quizStep=80;render()};const prev=document.querySelector('[data-prev]');if(prev)prev.onclick=()=>{if(state.quizStep>0)state.quizStep--;render()};const aiAdmission=document.querySelector('[data-ai-admission]');if(aiAdmission)aiAdmission.onclick=()=>callAI('admission',getSchool(location.hash.split('/')[2]));const aiFuture=document.querySelector('[data-ai-future]');if(aiFuture)aiFuture.onclick=()=>{const futureForm=document.getElementById('future-form');if(!futureForm.reportValidity())return;state.future=Object.fromEntries(new FormData(futureForm).entries());storage.setItem('atlas-future',JSON.stringify(state.future));callAI('future',getSchool(location.hash.split('/')[2]),state.future)};const pay=document.querySelector('[data-pay]');if(pay)pay.onclick=()=>toast('演示环境：支付流程已模拟，方案将在真实接入支付后解锁。')}
